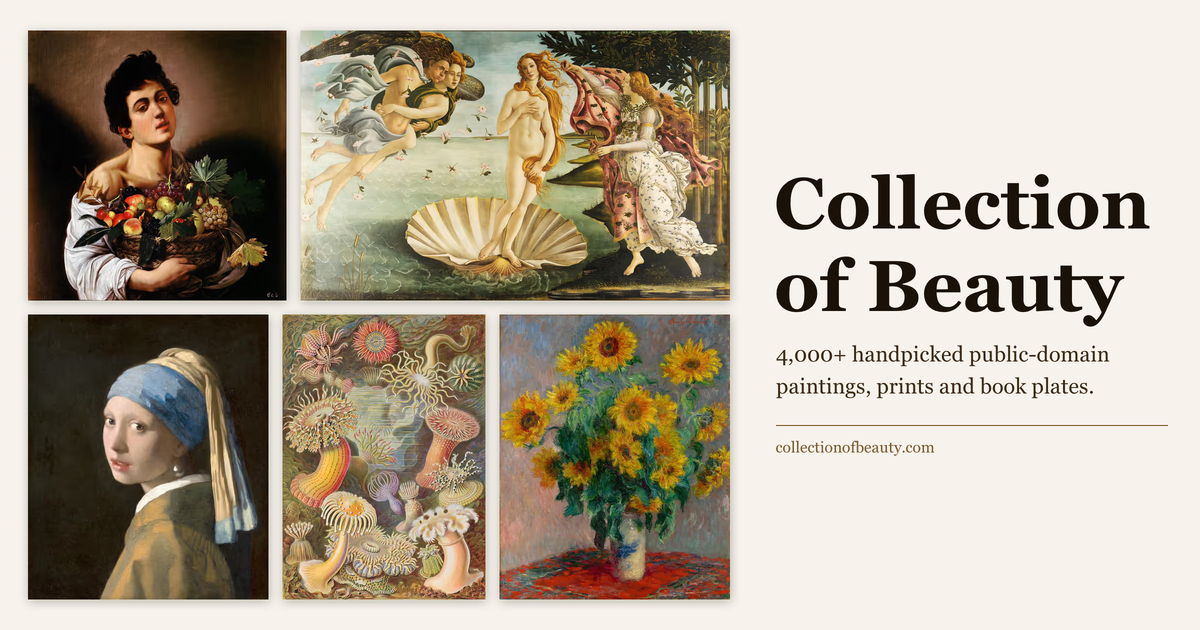
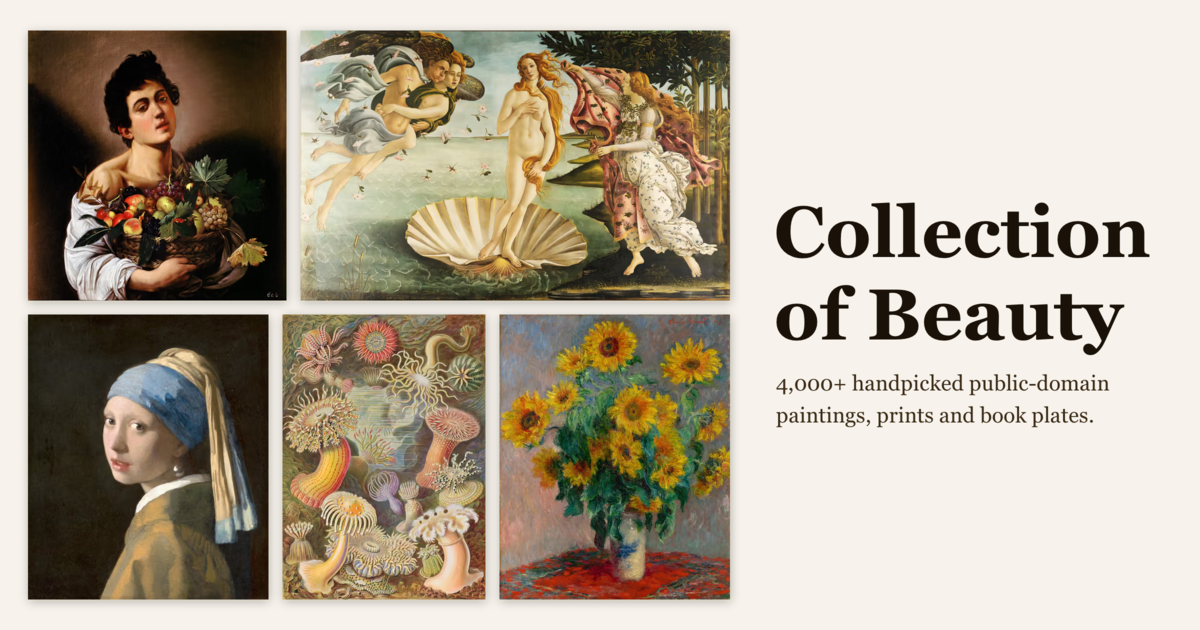
Drop the URL from the og:image wordmark card
Rico wants the cards without a link line. The card is now drawn from the
link-preview format with text.url off, so the title block re-centres;
og-large.jpg and the site's opengraph-image stay as they are.

Changed region(s): [[0.6475, 0.2714, 0.9558, 0.7238], [0.2775, 0.8143, 0.3083, 0.8444], [0.2467, 0.6635, 0.2775, 0.6937]]

diff --git a/docs/marketing/README.md b/docs/marketing/README.md
@@ -114,7 +114,7 @@ Made by the same script, `pnpm marketing:social-preview`, on 11 November
 
 | File | Shows |
 | --- | --- |
-| `social-preview/og-wordmark.png` | The link-preview card `public/marketing/collection-of-beauty-og-large.jpg`, downscaled from 2400 × 1260. |
+| `social-preview/og-wordmark.png` | The link-preview card `public/marketing/collection-of-beauty-og-large.jpg` without the URL and its rule: same works and title block, drawn at 2400 × 1260 and downscaled. |
 | `social-preview/og-clean.png` | No text: that card's wall widened to the full card. Its five works keep their places; Hokusai's wave and Seurat's Grande Jatte continue the two rows. Drawn at 2× and downscaled. |
 
 ## Live GitHub social preview
